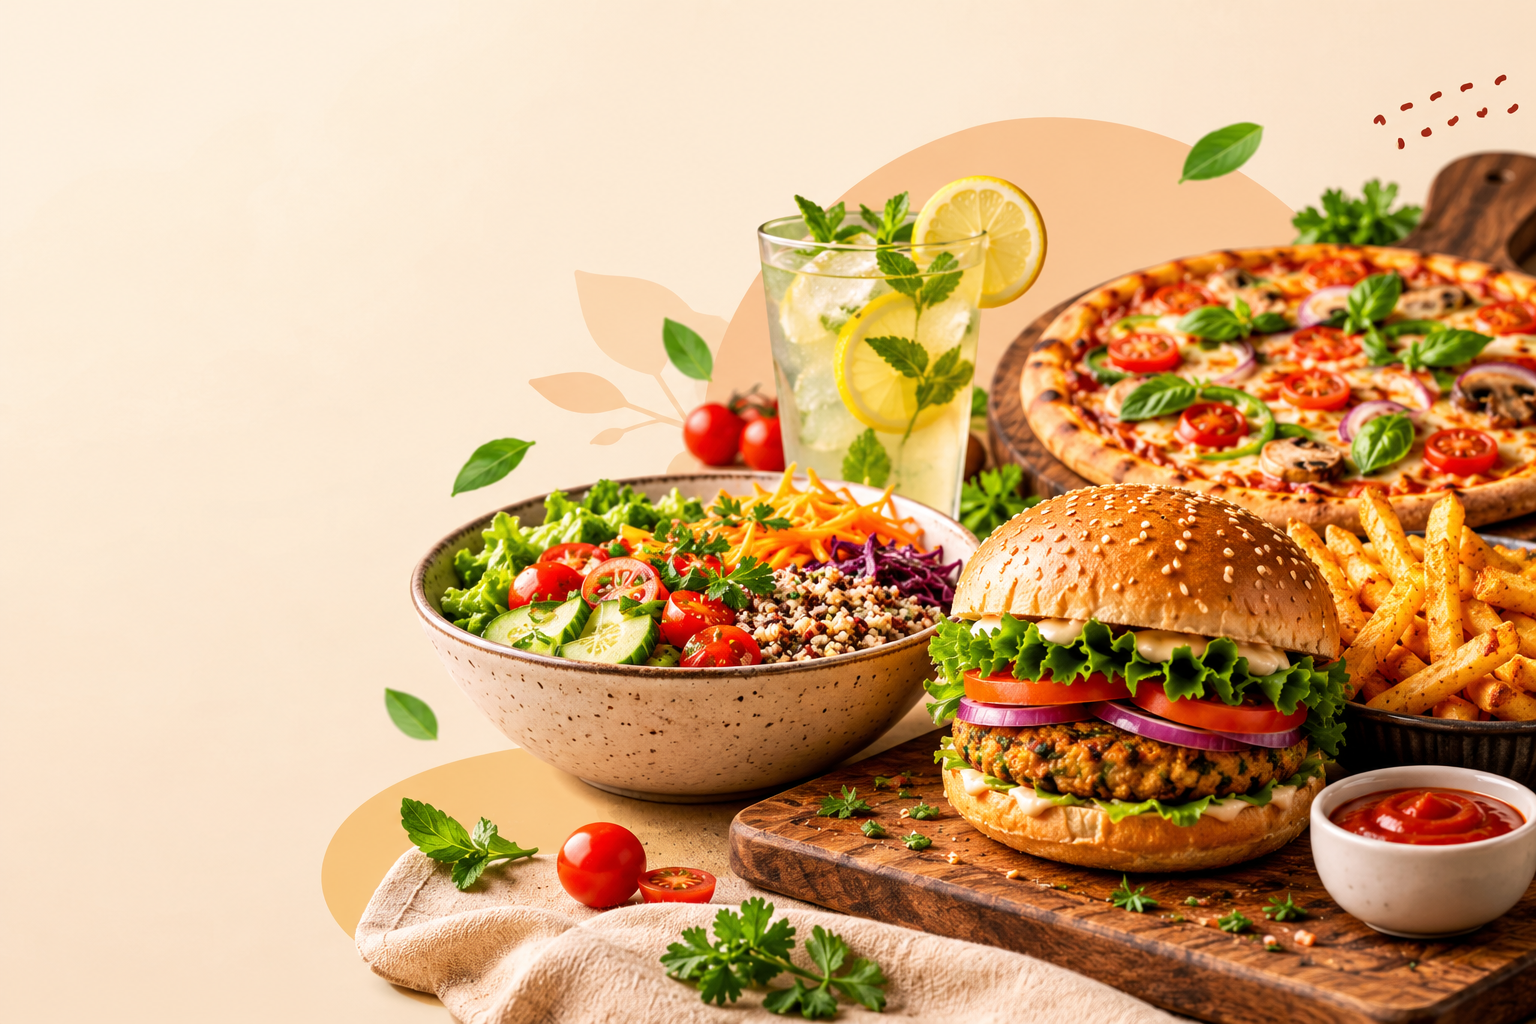
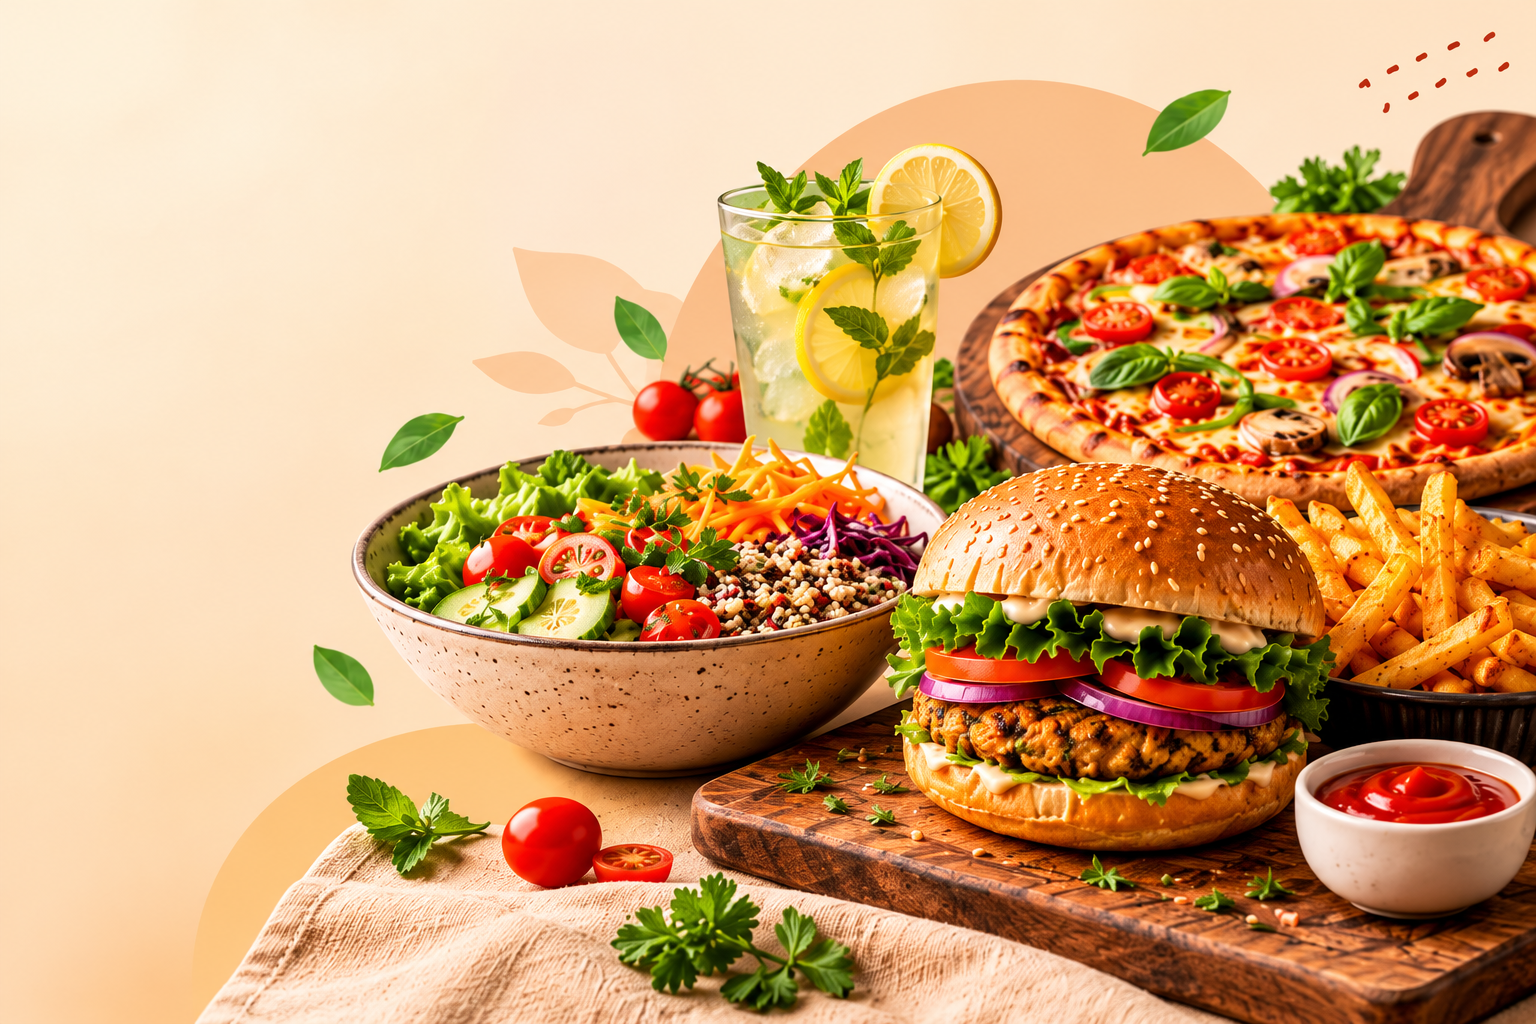
frontend added

diff --git a/Frontend/src/styles/global.css b/Frontend/src/styles/global.css
@@ -892,46 +892,33 @@ input {
 
 
 /* HERO RIGHT */
-
 .hero-image-wrapper {
   position: relative;
 
   width: 100%;
-  min-height: 480px;
-
-  display: flex;
-  align-items: center;
-  justify-content: center;
-}
-
-
-.hero-image-background {
-  position: absolute;
-
-  width: 410px;
-  height: 410px;
-
-  border-radius: 50%;
-
-  background-color: #ead2bb;
-}
-
-
-.hero-image {
-  position: relative;
-  z-index: 2;
-
-  width: 100%;
-  max-width: 520px;
-  height: 450px;
-
-  object-fit: cover;
+  height: 480px;
 
   border-radius: 30px;
+  overflow: hidden;
 
   box-shadow:
     0 25px 60px
     rgba(82, 45, 36, 0.18);
+}
+
+
+.hero-image {
+  position: absolute;
+  top: 0;
+  left: 0;
+
+  width: 100%;
+  height: 480px;
+
+  object-fit: cover;
+  object-position: center;
+
+  border-radius: 30px;
 }
 
 

diff --git a/Frontend/src/pages/public/Home.jsx b/Frontend/src/pages/public/Home.jsx
@@ -63,12 +63,20 @@ function Home() {
           </div>
 
           <div className="hero-image-wrapper">
-            
-            <div className="hero-image-background" />
-            <img src={heroImage} alt="Delicious CraveCart food" className="hero-image" />
+
+            <img
+              src={heroImage}
+              alt="Delicious CraveCart food"
+              className="hero-image"
+            />
+
             <div className="hero-floating-card">
               <span className="hero-floating-icon">★</span>
-              <div><strong>Made for cravings</strong><p>Fresh choices, easy ordering</p></div>
+
+              <div>
+                <strong>Made for cravings</strong>
+                <p>Fresh choices, easy ordering</p>
+              </div>
             </div>
 
           </div>
